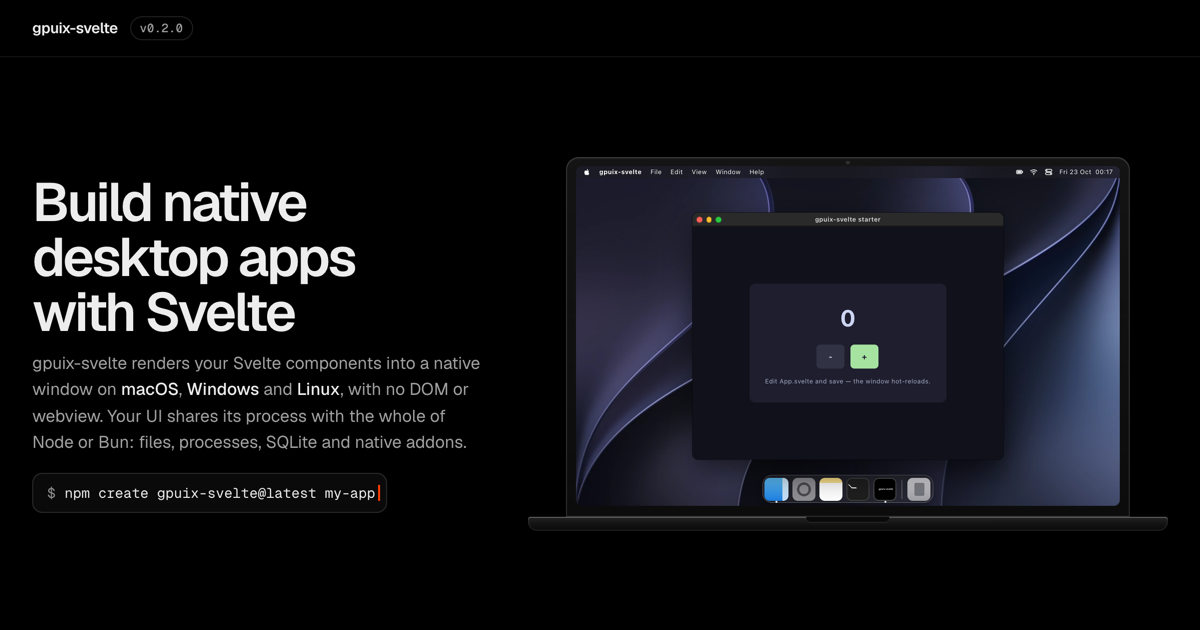
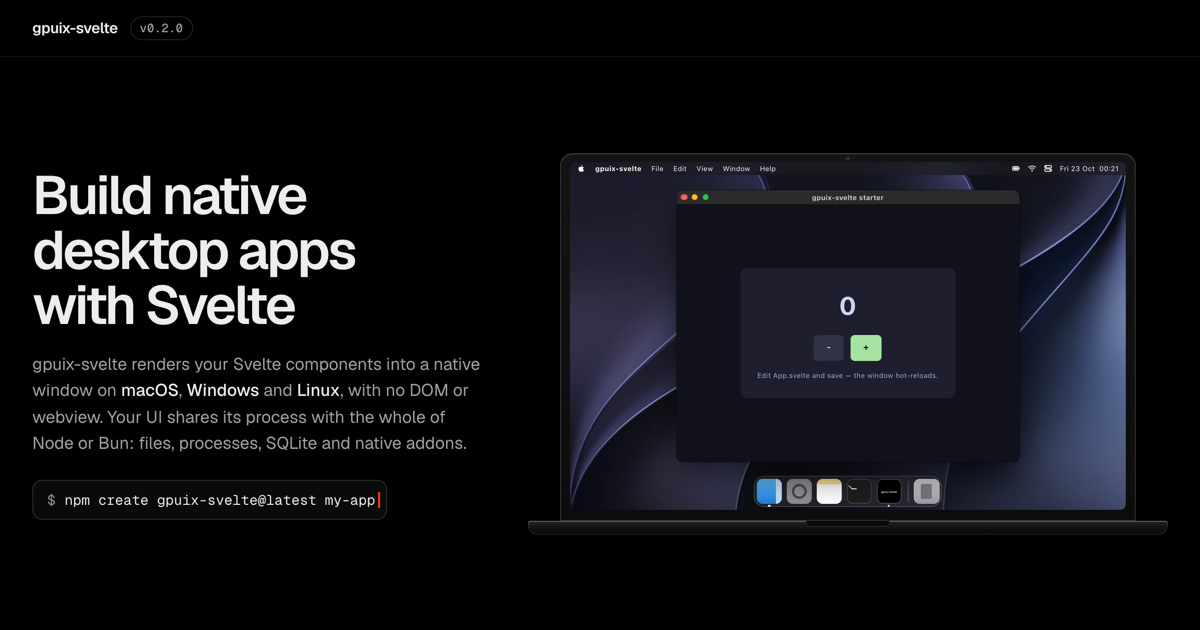
wip

diff --git a/homepage/index.html b/homepage/index.html
@@ -171,7 +171,7 @@ h1{font-size:clamp(38px,4.75vw,66px);line-height:1.02;letter-spacing:-.046em;tex
 .b-plus{left:50.7%;top:50.63%;width:9.22%;height:10.42%}
 .b-hint{left:25.3%;top:64.38%;width:49.4%;height:4.38%}
 
-:root{--vp:1px;--osw-t:.22s;--osw-h:calc(var(--osw-t) / 2);--osw-q:.12s;--osw-line:var(--line-2);--osw-sans:var(--sans);--sys:-apple-system,BlinkMacSystemFont,"Segoe UI Variable Text","Segoe UI",Ubuntu,Cantarell,var(--sans)}
+:root{--vp:1px;--osw-t:.45s;--osw-h:calc(var(--osw-t) / 2);--osw-q:.12s;--osw-line:var(--line-2);--osw-sans:var(--sans);--sys:-apple-system,BlinkMacSystemFont,"Segoe UI Variable Text","Segoe UI",Ubuntu,Cantarell,var(--sans)}
 .lap,.lap *,.lap *::before,.lap *::after{box-sizing:border-box}
 .lap{display:grid;gap:26px;justify-items:center;width:100%;max-width:900px;margin:0 auto}
 .lap-still{--osw-t:0s;--osw-q:0s}
@@ -185,12 +185,12 @@ h1{font-size:clamp(38px,4.75vw,66px);line-height:1.02;letter-spacing:-.046em;tex
 .osw-opt input:focus-visible+span{outline:2px solid var(--text);outline-offset:1px}
 
 .lap-dev{position:relative;width:100%;container-type:inline-size}
-.lap-lid{position:relative;width:88%;margin:0 auto;padding:1.5cqw 1.5cqw 1.6cqw;border-radius:2cqw 2cqw 0 0;background:linear-gradient(#141414,#0c0c0c);box-shadow:inset 0 0 0 1px rgba(255,255,255,.14),inset 0 2px 0 rgba(255,255,255,.04)}
+.lap-lid{position:relative;width:90%;margin:0 auto;padding:1.5cqw 1.5cqw 1.6cqw;border-radius:2cqw 2cqw 0 0;background:linear-gradient(#141414,#0c0c0c);box-shadow:inset 0 0 0 1px rgba(255,255,255,.14),inset 0 2px 0 rgba(255,255,255,.04)}
 .lap-lid::before{content:"";position:absolute;top:.6cqw;left:50%;width:.5cqw;height:.5cqw;margin-left:-.25cqw;border-radius:50%;background:#1d1d1f;box-shadow:inset 0 0 0 1px rgba(255,255,255,.12)}
 .lap-base{position:relative;height:2.3cqw;border-radius:.4cqw .4cqw 1.4cqw 1.4cqw;background:linear-gradient(#232323,#101010 60%,#0a0a0a);box-shadow:inset 0 1px 0 rgba(255,255,255,.22),inset 0 0 0 1px rgba(255,255,255,.08)}
 .lap-base::before{content:"";position:absolute;top:0;left:50%;width:13%;height:42%;transform:translateX(-50%);border-radius:0 0 .7cqw .7cqw;background:#0a0a0a;box-shadow:inset 0 -1px 0 rgba(255,255,255,.1)}
 
-.scr{--vp:calc(100cqw / 1440);position:relative;overflow:hidden;aspect-ratio:16/10;border-radius:.9cqw;background:#000;container-type:inline-size;font:400 calc(13 * var(--vp))/1.25 var(--sys);color:#fff;-webkit-user-select:none;user-select:none;cursor:default}
+.scr{--vp:calc(100cqw / 1152);position:relative;overflow:hidden;aspect-ratio:16/10;border-radius:.9cqw;background:#000;container-type:inline-size;font:400 calc(13 * var(--vp))/1.25 var(--sys);color:#fff;-webkit-user-select:none;user-select:none;cursor:default}
 .scr-wall{position:absolute;inset:0;width:100%;height:100%;max-width:none;object-fit:cover;opacity:0;transition:opacity var(--osw-t) ease}
 .desk{position:absolute;inset:0;opacity:0;visibility:hidden;transition:opacity var(--osw-h) ease,visibility 0s linear var(--osw-h)}
 .lap:has([value=mac]:checked) .scr-wall-mac,.lap:has([value=win]:checked) .scr-wall-win,.lap:has([value=linux]:checked) .scr-wall-linux{opacity:1}
@@ -262,7 +262,9 @@ h1{font-size:clamp(38px,4.75vw,66px);line-height:1.02;letter-spacing:-.046em;tex
 .ub-grid{display:grid;grid-template-columns:repeat(3,1fr);gap:calc(3 * var(--vp));width:calc(22 * var(--vp));height:calc(22 * var(--vp));margin-top:auto;margin-bottom:calc(4 * var(--vp))}
 .ub-grid i{display:block;border-radius:50%;background:rgba(255,255,255,.75)}
 
-.win{position:absolute;left:50%;top:50%;width:calc(640 * var(--vp));transform:translate(-50%,-50%);box-shadow:0 calc(24 * var(--vp)) calc(60 * var(--vp)) rgba(0,0,0,.6),0 0 0 .5px rgba(0,0,0,.6)}
+.win{position:absolute;left:50%;top:calc(50% - 20 * var(--vp));width:calc(640 * var(--vp));transform:translate(-50%,-50%);box-shadow:0 calc(24 * var(--vp)) calc(60 * var(--vp)) rgba(0,0,0,.6),0 0 0 .5px rgba(0,0,0,.6);transition:top var(--osw-t) ease}
+.lap:has([value=win]:checked) .win{top:calc(50% - 24 * var(--vp))}
+.lap:has([value=linux]:checked) .win{top:calc(50% + 16 * var(--vp))}
 .osw-win{position:relative;overflow:hidden;border:1px solid var(--osw-line);border-radius:calc(12 * var(--vp));background:#11111b;transition:border-radius var(--osw-t) ease}
 .scr .osw-win{border:0}
 .osw-bars{position:relative;height:calc(28 * var(--vp));overflow:hidden;background:#2a2a2a;box-shadow:inset 0 -1px rgba(0,0,0,.55);transition:height var(--osw-t) ease,background-color var(--osw-t) ease,box-shadow var(--osw-t) ease}
@@ -309,26 +311,19 @@ h1{font-size:clamp(38px,4.75vw,66px);line-height:1.02;letter-spacing:-.046em;tex
 .mk-btn.primary:hover{background:#94e2d5}
 .mk-hint{font-size:calc(13 * var(--vp));color:#a6adc8;white-space:nowrap}
 
-.osw-note{margin:0;max-width:52em;font-size:13.5px;line-height:1.55;color:var(--text-3);text-align:center;text-wrap:balance}
-.osw-says{display:grid;justify-items:center}
-.osw-says>span{grid-area:1/1;visibility:hidden}
-.osw-says>.osw-say-mac{visibility:visible}
-
 .osw-mac{opacity:1;visibility:visible;transition:opacity var(--osw-h) ease var(--osw-h)}
 .lap:has([value=win]:checked) .osw-win{border-radius:calc(8 * var(--vp))}
 .lap:has([value=win]:checked) .osw-bars{height:calc(32 * var(--vp));background:#202020;box-shadow:inset 0 -1px transparent}
 .lap:has([value=linux]:checked) .osw-bars{height:calc(46 * var(--vp));background:#2e2e32;box-shadow:inset 0 -1px rgba(0,0,0,.36)}
 .lap:has([value=win]:checked) .osw-mac,.lap:has([value=linux]:checked) .osw-mac{opacity:0;visibility:hidden;transition:opacity var(--osw-h) ease,visibility 0s linear var(--osw-h)}
 .lap:has([value=win]:checked) .osw-ms,.lap:has([value=linux]:checked) .osw-gn{opacity:1;visibility:visible;transition:opacity var(--osw-h) ease var(--osw-h)}
-.lap:has([value=win]:checked) .osw-say-mac,.lap:has([value=linux]:checked) .osw-say-mac{visibility:hidden}
-.lap:has([value=win]:checked) .osw-say-win,.lap:has([value=linux]:checked) .osw-say-linux{visibility:visible}
 
 @container (max-width:760px){
-.scr{--vp:calc(100cqw / 1120)}
+.scr{--vp:calc(100cqw / 1040)}
 }
 @container (max-width:520px){
-.scr{--vp:calc(100cqw / 960)}
-.win{top:calc(50% - 20 * var(--vp))}
+.scr{--vp:calc(100cqw / 1000)}
+.lap .win{top:calc(50% - 26 * var(--vp))}
 .mac-bar .bar-l span:nth-child(n+4),.win-clock,.ub-bar .bar-r{display:none}
 }
 @media (max-width:560px){
@@ -655,13 +650,18 @@ code.hiw-name,.hiw-edge code{font-size:11.5px}
 .hiw-note code{font-size:11px}
 }
 
+@media (min-width:1024px){
+.hero{padding:44px 0 72px}
+.hero .wrap{display:grid;grid-template-columns:minmax(0,5fr) minmax(0,7fr);gap:0 48px;align-items:center}
+h1{grid-area:1/1;align-self:end;font-size:clamp(40px,4.1vw,58px)}
+.lead{grid-area:2/1;align-self:start}
+.stage{grid-area:1/2/3/3;margin:0}
+.lap{max-width:none}
+}
 @media (min-width:1100px) and (max-height:760px){
-.hero{padding-top:18px}
-h1{font-size:min(4.75vw,54px)}
-.lead{margin-top:10px;gap:18px}
+.hero{padding-top:24px}
 .install,.links .btn{height:40px}
-.stage{margin-top:28px}
-.lap{max-width:820px}
+.hero .wrap{grid-template-columns:minmax(0,1fr) minmax(0,600px)}
 }
 @media (min-width:1440px){
 main,.foot{background:linear-gradient(var(--line),var(--line)) calc(50% - var(--max) / 2 - var(--gut)) 0/1px 100% no-repeat,linear-gradient(var(--line),var(--line)) calc(50% + var(--max) / 2 + var(--gut)) 0/1px 100% no-repeat}
@@ -735,12 +735,10 @@ h1{font-size:clamp(34px,10.4vw,44px)}
 .h-fine{display:none}
 .h-touch{display:inline}
 }
-:root:has(#og:target) :is(.nav ul,.github-corner,.copy,.bar .hint,.links,.osw-seg,.osw-note){display:none}
-:root:has(#og:target) .hero{padding-top:0}
-:root:has(#og:target) .hero .wrap{display:grid;grid-template-columns:minmax(0,1fr) 640px;gap:0 44px;align-items:center;min-height:574px}
-:root:has(#og:target) h1{grid-area:1/1;align-self:end;font-size:54px}
-:root:has(#og:target) .lead{grid-area:2/1;align-self:start}
-:root:has(#og:target) .stage{grid-area:1/2/3/3;margin:0}
+:root:has(#og:target) :is(.nav ul,.github-corner,.copy,.bar .hint,.links,.osw-seg){display:none}
+:root:has(#og:target) .hero{padding:0}
+:root:has(#og:target) .hero .wrap{grid-template-columns:minmax(0,1fr) 640px;gap:0 44px;min-height:574px}
+:root:has(#og:target) h1{font-size:54px}
 @media (prefers-reduced-motion:reduce){*,*::before,*::after{transition:none!important;animation:none!important}}
 </style>
 <script defer src="https://u.khromov.se/u.js" data-website-id="4acad772-f733-4a21-ba45-e25689155f2a"></script>
@@ -820,7 +818,6 @@ h1{font-size:clamp(34px,10.4vw,44px)}
 </div>
 <div class="lap-base"></div>
 </div>
-<figcaption class="osw-note">The starter’s window on a desktop drawn for this page, over each system’s default wallpaper. The buttons work. <span class="osw-says"><span class="osw-say-mac">On macOS, GPUI draws the real one with Metal.</span><span class="osw-say-win">On Windows, GPUI draws the real one with DirectX.</span><span class="osw-say-linux">On Linux, GPUI draws the real one with Vulkan.</span></span></figcaption>
 </figure>
 </div>
 </div>
@@ -1293,6 +1290,22 @@ for (const pair of document.querySelectorAll('[data-active]')) {
 		// Reading layout applies the new state while transitions are off, so a preselect never crossfades.
 		void lap.offsetWidth;
 		lap.classList.remove('lap-still');
+	}
+
+	const inputs = [...(lap?.querySelectorAll('input[name=osw-os]') ?? [])];
+	if (inputs.length && !matchMedia('(prefers-reduced-motion: reduce)').matches) {
+		let paused = false;
+		const cycle = setInterval(() => {
+			if (paused || document.hidden) return;
+			const i = inputs.findIndex((input) => input.checked);
+			inputs[(i + 1) % inputs.length].checked = true;
+		}, 4000);
+		// A visitor's own choice sticks; hovering or focusing the laptop only pauses the tour.
+		for (const input of inputs) input.addEventListener('input', () => clearInterval(cycle));
+		lap.addEventListener('pointerenter', () => (paused = true));
+		lap.addEventListener('pointerleave', () => (paused = false));
+		lap.addEventListener('focusin', () => (paused = true));
+		lap.addEventListener('focusout', () => (paused = lap.contains(document.activeElement)));
 	}
 
 	const count = lap?.querySelector('[data-count]');
